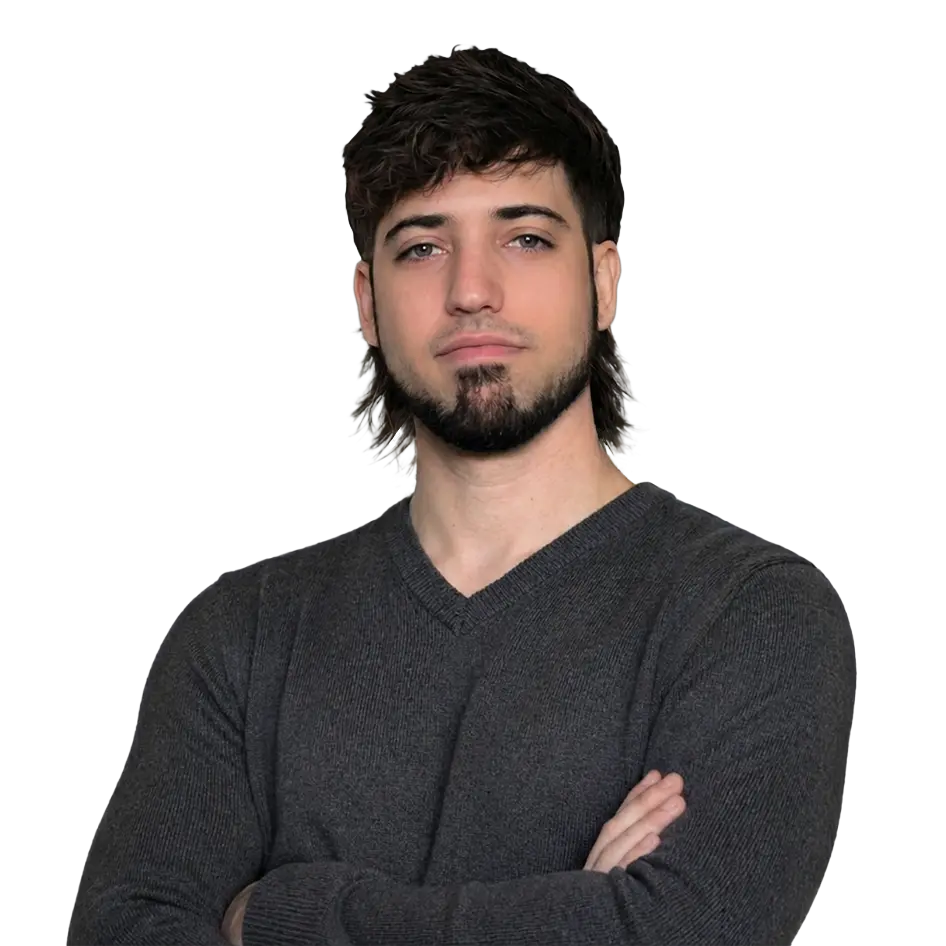
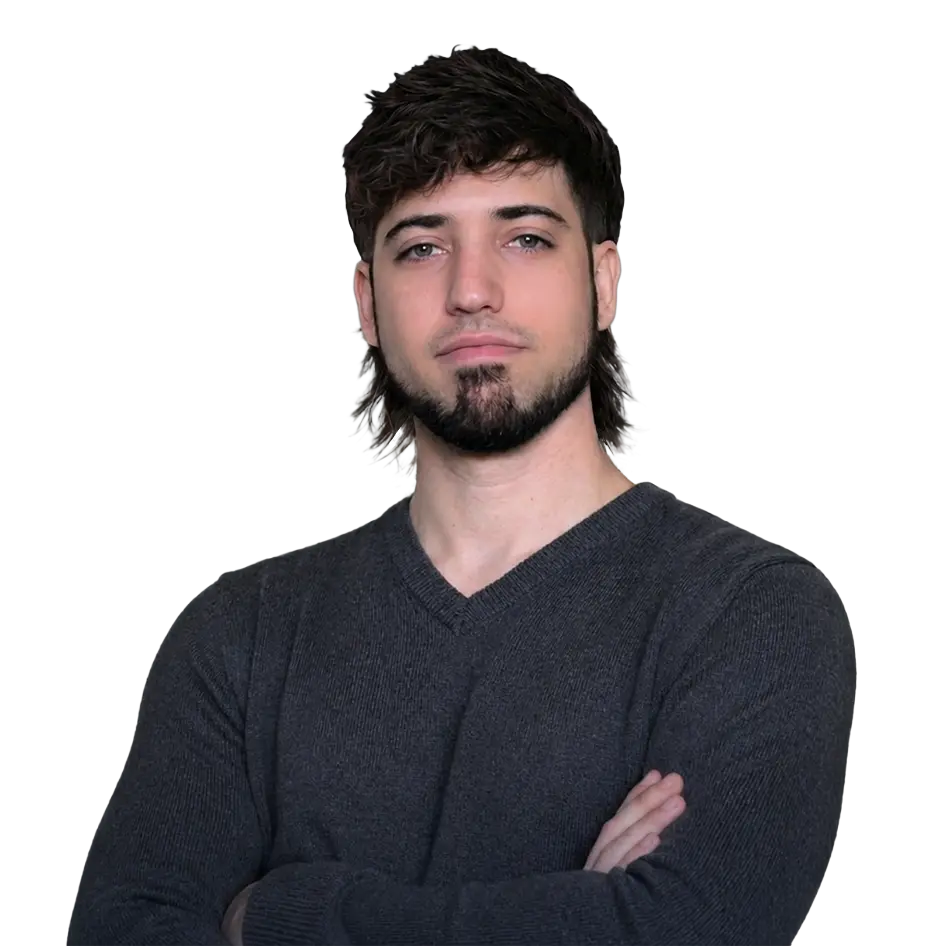
-Hero image mejorada (posición en móvil y además versión clara/oscura mejor adaptada a los colores de la web) -Shader hero ahora se adapta en tamaño para móvil.

Changed region(s): [[0.6131, 0.797, 0.7357, 0.9197], [0.2452, 0.9503, 0.2759, 1.0], [0.7664, 0.9503, 0.797, 0.981]]

diff --git a/resources/views/public/home.blade.php b/resources/views/public/home.blade.php
@@ -760,6 +760,10 @@
           object-fit: contain; object-position: bottom center;
           filter: drop-shadow(var(--hr-portrait-shadow));
         }
+        /* Desktop/layer portrait: hard switch by theme (prevents both images showing). */
+        .hr-portrait-layer .hr-portrait-dark { display: none; }
+        html.dark .hr-portrait-layer .hr-portrait-light { display: none; }
+        html.dark .hr-portrait-layer .hr-portrait-dark { display: block; }
 
         /* ── Idea card ───────────────────────────────────────────────── */
         .hr-idea-card {
@@ -844,15 +848,27 @@
             align-items: start;
             max-width: 100%;
           }
-          /* Keep inner portrait area ≥ --hr-portrait-box-h once padding is border-box */
+          /*
+            Mobile: collapse any artificial vertical box height so the portrait
+            hugs the copy more closely. The generic min-height based on
+            --hr-portrait-box-h was leaving extra empty space above the bitmap.
+          */
           .hr-photo-stage {
-            min-height: calc(var(--hr-portrait-box-h) + 2 * var(--hr-stage-pady));
+            /* Let the image define the height; keep just enough padding for the glow. */
+            min-height: auto;
             display: flex;
             align-items: flex-end;
             justify-content: center;
+            padding-top: calc(var(--hr-stage-pady) * 0.5);
+            /* Remove extra blank band under the bitmap on stacked/mobile layout. */
+            padding-bottom: 0;
           }
           .hr-hero-right {
-            min-height: calc(var(--hr-portrait-box-h) + 2 * var(--hr-stage-pady) + clamp(12px, 2.2vw, 28px) + clamp(10px, 1.8vw, 24px));
+            /* Keep hero-right snug to the stats strip so the portrait appears to emerge from behind it,
+               without reintroducing a tall fixed box above the bitmap. */
+            min-height: auto;
+            padding-top: clamp(4px, 1.5vw, 10px);
+            padding-bottom: 0;
           }
           /* Stacked hero: width + aspect-capped height so img fills the box (no letterboxing gap) */
           .hr-portrait-layer {
@@ -861,8 +877,13 @@
           .hr-portrait-inline {
             display: block;
             width: min(100%, var(--hr-portrait-w));
-            height: var(--hr-portrait-box-h);
+            /* Let intrinsic aspect + stage padding drive total height; avoid ghost box above image. */
+            height: auto;
           }
+          /* Mobile/inline portrait: force a single visible image by theme. */
+          .hr-portrait-inline.hr-portrait-dark { display: none; }
+          html.dark .hr-portrait-inline.hr-portrait-light { display: none; }
+          html.dark .hr-portrait-inline.hr-portrait-dark { display: block; }
           .hr-idea-card { right: 32px; bottom: 100px; }
         }
         /* Narrow viewports: keep 4 stats in one row, stack icon → title → text inside each cell */
@@ -908,7 +929,8 @@
           .hr-stat-icon svg { width: 16px; height: 16px; }
           .hr-h1 { font-size: 38px; }
           .hr-idea-card { right: max(16px, env(safe-area-inset-right, 0px)); bottom: 72px; }
-          .hr-stats-wrapper { padding: 0 12px; margin-top: -28px; }
+          /* Pull stats strip up a bit more on phones so it visually meets the portrait. */
+          .hr-stats-wrapper { padding: 0 12px; margin-top: -40px; }
         }
 
         /* ── Card sections: headings follow theme heading token ─────── */
@@ -1004,7 +1026,12 @@
                             <canvas class="hr-dots-canvas"></canvas>
                         </div>
                         <div class="hr-photo-glow" aria-hidden="true"></div>
-                        <img class="hr-portrait-inline"
+                        <img class="hr-portrait-inline hr-portrait-light"
+                             src="{{ asset('img/me-noBg-light.webp') }}"
+                             alt=""
+                             width="520" height="720"
+                             decoding="async" fetchpriority="high">
+                        <img class="hr-portrait-inline hr-portrait-dark"
                              src="{{ asset('img/me-noBg-dark.webp') }}"
                              alt=""
                              width="520" height="720"
@@ -1016,13 +1043,20 @@
 
             {{-- Portrait anchored to the bottom of the hero card --}}
             <div class="hr-portrait-layer" aria-hidden="true">
-                <img src="{{ asset('img/me-noBg-dark.webp') }}"
+                <img class="hr-portrait-light"
+                     src="{{ asset('img/me-noBg-light.webp') }}"
+                     alt="Carlos — Fullstack Developer"
+                     width="520" height="720"
+                     loading="eager" decoding="async">
+                <img class="hr-portrait-dark"
+                     src="{{ asset('img/me-noBg-dark.webp') }}"
                      alt="Carlos — Fullstack Developer"
                      width="520" height="720"
                      loading="eager" decoding="async">
             </div>
 
-            {{-- Floating idea card --}}
+            {{-- Floating idea card (hidden temporarily) --}}
+            {{--
             <aside class="hr-idea-card">
                 <div class="hr-idea-head">
                     <span style="display:inline-block;width:6px;height:6px;border-radius:999px;background:var(--hr-accent-2);"></span>
@@ -1033,6 +1067,7 @@
                     <svg width="14" height="14" viewBox="0 0 24 24" fill="none" stroke="currentColor" stroke-width="2" stroke-linecap="round" stroke-linejoin="round" aria-hidden="true"><path d="M5 12h14M13 5l7 7-7 7"/></svg>
                 </a>
             </aside>
+            --}}
 
     </section>{{-- /hr-hero --}}
 
@@ -1449,9 +1484,9 @@
   gl.disable(gl.DEPTH_TEST);
   gl.enable(gl.BLEND);
   gl.blendFunc(gl.SRC_ALPHA, gl.ONE_MINUS_SRC_ALPHA);
-  const dpr = Math.min(window.devicePixelRatio || 1, 2);
 
   function resize() {
+    const dpr = Math.min(window.devicePixelRatio || 1, 2);
     const rect = canvas.getBoundingClientRect();
     const w = Math.max(1, Math.floor(rect.width * dpr));
     const h = Math.max(1, Math.floor(rect.height * dpr));
@@ -1491,8 +1526,14 @@
       float target = ratio * 1.02 + wobble;
       float band = abs(diagonal - target);
       band += 0.055 * (noise(p * 6.2 + vec2(t * 0.12, -t * 0.08)) - 0.5);
-      /* Slightly wider core than opaque-era mask so the band reads clearly on page bg */
-      float mask = smoothstep(1.48, -0.04, band);
+      /*
+        band scales ~linearly with aspect ratio (width/height). Fixed smoothstep edges
+        blow up on tall phones (tiny ratio) and invert smoothstep had edge0 > edge1 (undefined).
+        Normalizing makes stripe width consistent across viewports.
+      */
+      float bandN = band / max(ratio, 0.04);
+      /* Narrow core, soft falloff (valid smoothstep: low < high) */
+      float mask = 1.0 - smoothstep(0.06, 0.74, bandN);
       float mixer    = smoothstep(0.2, 0.8, uv.x + sin(t * 0.5) * 0.2);
       vec3  bandCol  = mix(u_cA, u_cB, mixer);
       vec3  fluid    = bandCol * u_fluidMix;
